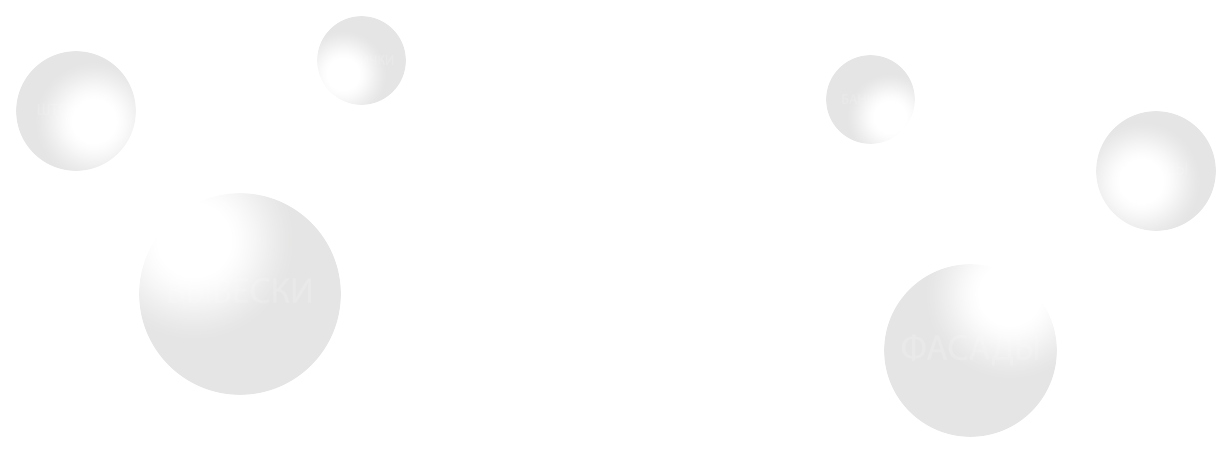
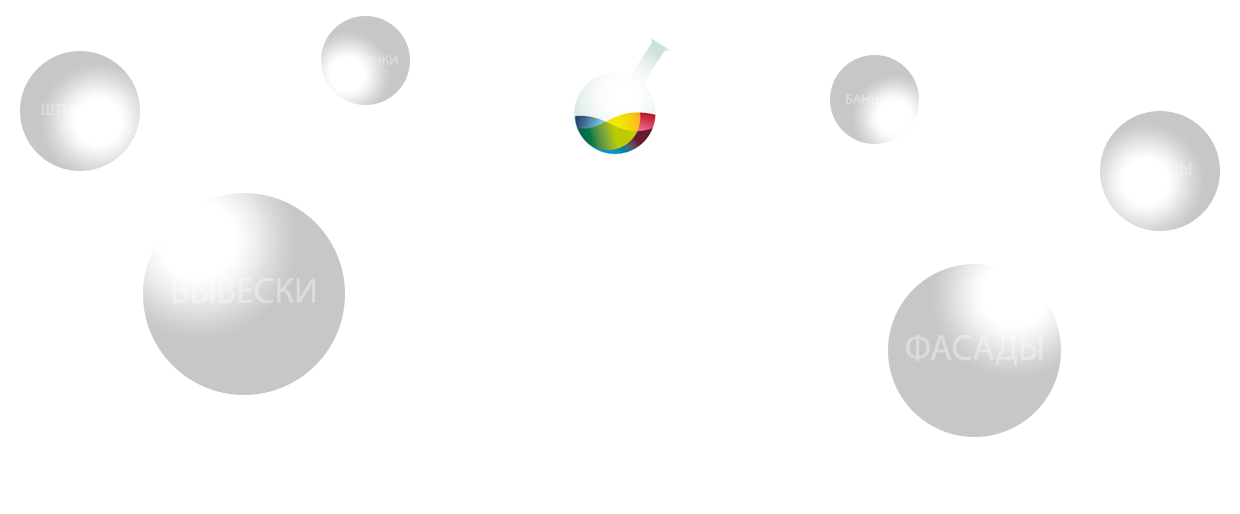
about

diff --git a/web/css/site.css b/web/css/site.css
@@ -15,6 +15,7 @@ body {
     margin: 0 auto -101px;
     padding: 0 0 101px;
     background: url('../images/bg.jpg') repeat left top;
+    overflow: hidden;
 }
 
 .navbar {
@@ -57,7 +58,7 @@ body {
 }
 
 .wrap > .container {
-    padding: 100px 15px 20px;
+    padding: 100px 0px 20px;
 }
 
 .footer {
@@ -67,7 +68,7 @@ body {
 }
 
 .footer .footer-brand__logo {
-    background: url('../images/logo.png') 0 -44px;
+    background: url('../images/logo.png') 0 -43px;
     height: 44px;
     width: 250px;
 }
@@ -138,6 +139,41 @@ a.desc:after {
     margin: 0 0 15px 0;
 }
 
+.contacts {
+    margin-top: 35px;
+    width: 100%;
+    min-height: 453px;
+    background: url('../images/balls.png') center top no-repeat;
+}
+
+.contacts-info {
+    position: relative;
+    padding: 395px 0 50px 0;
+    text-align: center;
+}
+
+.contacts-info p {
+    display: inline-block;
+    font-family: 'FontAwesome';
+    font-size: 18px;
+    font-weight: bold;
+}
+
+.contacts-info i {
+    color: #96f000;
+    font-size: 20px;
+}
+
+.content {
+    background-color: #ffffff;
+    color: #000000;
+    font: 18px Verdana, sans-serif;
+}
+
+.content > .container {
+    padding: 15px 50px 40px;
+}
+
 @media (max-width: 768px) {
     .footer {
         height: auto;
@@ -184,5 +220,57 @@ a.desc:after {
         background-size: 150px 52px;
         height: 26px;
         background-position: left bottom;
+    }
+
+    .footer-copy {
+        font-size: 11px;
+    }
+}
+
+@media (min-width: 1240px){
+    .wrap > .container {
+        width: 1240px;
+    }
+}
+
+@media (max-width: 892px){
+    .content > .container {
+        padding: 15px 10px 40px;
+    }
+}
+
+@media (min-width: 1200px){
+    .wrap > .container {
+        width: 100%;
+    }
+
+    .navbar-fixed-top > .container {
+        padding: 0 40px;
+    }
+
+    .footer > .container {
+        padding-left: 17px;
+    }
+
+    .navbar .navbar-brand {
+        padding-left: 0px;
+    }
+}
+
+@media (min-width: 1200px) and (max-width: 1240px){
+    /*.navbar-fixed-top > .container, .footer > .container {
+        width: 1080px;
+    }*/
+}
+
+@media (max-width: 1200px){
+    .wrap > .container {
+        width: 100%;
+    }
+}
+
+@media (min-width: 992px){
+    .container {
+        width: 960px;
     }
 }

diff --git a/views/site/index.php b/views/site/index.php
@@ -2,9 +2,38 @@
 
 /* @var $this yii\web\View */
 
-$this->title = 'My Yii Application';
+$this->title = $page->title;
 ?>
-<div class="site-index">
-
-    
+<div class="contacts">
+    <div class="container contacts-info">
+        <?php
+        if(sizeof($contacts) > 0 && sizeof($contactTypes)){
+            foreach ($contactTypes as $keyType => $type) {
+                ?>
+                <div>
+                    <?php
+                        foreach ($contacts as $keyContact => $contact) {
+                            if($contact->type == $type->id){
+                            ?>
+                            <p>
+                                <?php 
+                                echo $type->icon . "&nbsp;";
+                                echo $contact->value . "&nbsp;"; 
+                                ?>
+                            </p>
+                             <?php
+                            }
+                        }
+                    ?>
+                </div>
+                <?php
+            }
+        }
+        ?>
+    </div>
+</div>
+<div class="content">
+    <div class="container">
+        <?=$page->text;?>
+    </div>
 </div>

diff --git a/controllers/SiteController.php b/controllers/SiteController.php
@@ -9,6 +9,8 @@ use yii\filters\VerbFilter;
 use app\models\LoginForm;
 use app\models\ContactForm;
 use app\models\Pages;
+use app\models\Contacts;
+use app\models\ContactTypes;
 
 class SiteController extends Controller
 {
@@ -50,8 +52,18 @@ class SiteController extends Controller
 
     public function actionIndex()
     {
-        $model = new Pages('homepage');
-        return $this->render('index');
+        $page = Pages::find()
+            ->where(['url' => "homepage"])
+            ->one();
+
+        $contacts = Contacts::findBySql('select * from ' . Contacts::tableName())->all();
+        $contactTypes = ContactTypes::findBySql('select * from ' . ContactTypes::tableName() . ' order by sort ASC')->all();
+
+        return $this->render('index', [
+            'page' => $page,
+            'contacts' => $contacts,
+            'contactTypes' => $contactTypes,
+        ]);
     }
 
     public function actionLogin()

diff --git a/models/ContactTypes.php b/models/ContactTypes.php
@@ -11,10 +11,10 @@ use yii\db\ActiveRecord;
  * @property User|null $user This property is read-only.
  *
  */
-class Pages extends ActiveRecord
+class ContactTypes extends ActiveRecord
 {
     public static function tableName()
     {
-        return Yii::$app->db->tablePrefix . 'pages';
+        return Yii::$app->db->tablePrefix . 'contact_types';
     }
 }

diff --git a/models/Contacts.php b/models/Contacts.php
@@ -11,10 +11,10 @@ use yii\db\ActiveRecord;
  * @property User|null $user This property is read-only.
  *
  */
-class Pages extends ActiveRecord
+class Contacts extends ActiveRecord
 {
     public static function tableName()
     {
-        return Yii::$app->db->tablePrefix . 'pages';
+        return Yii::$app->db->tablePrefix . 'contacts';
     }
 }
